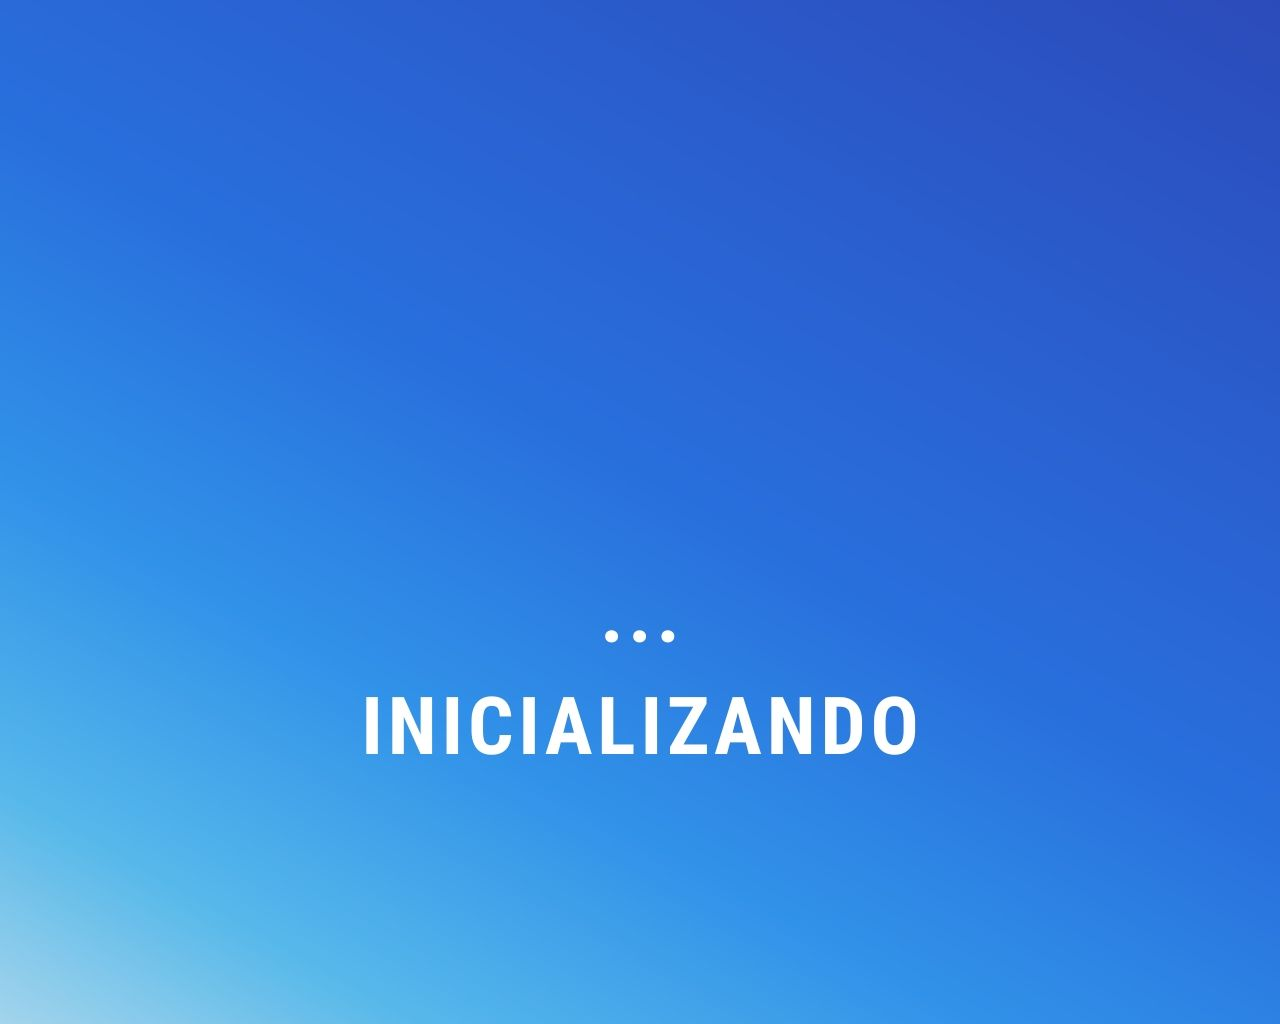
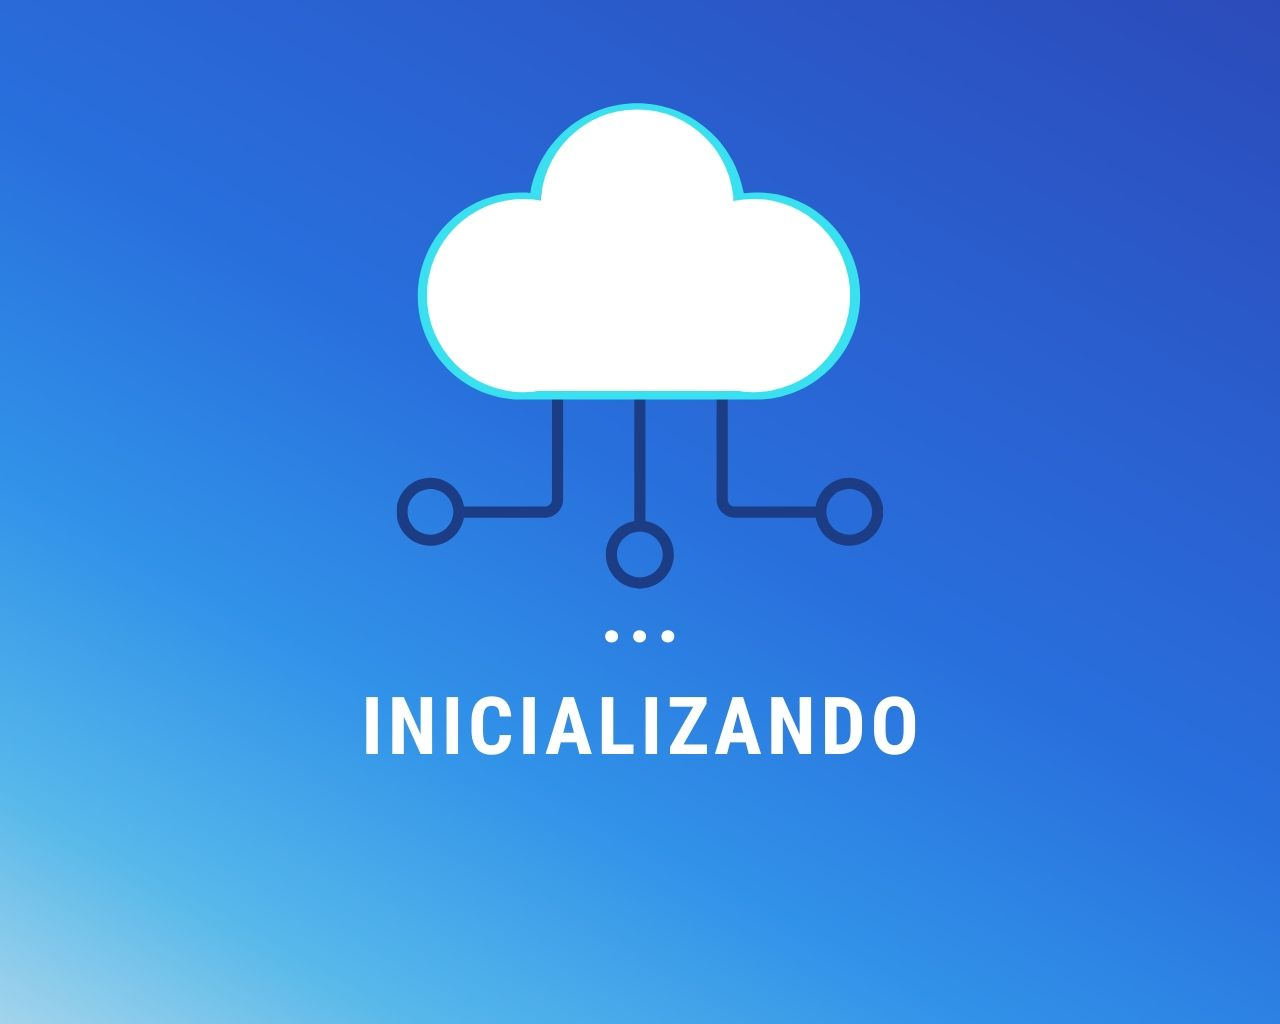
Main

Changed region(s): [[0.3125, 0.0938, 0.6875, 0.5938]]

diff --git a/venv/SistemaDeDesinfeccion.py b/venv/SistemaDeDesinfeccion.py
@@ -66,11 +66,11 @@ class PageOne(Frame):
         self.value3 = 0
         for i in range(12):
             imagen=Image.open(f"Imagenes/GIF_Waiting/waiting_{i}.jpg")
-            imagen=imagen.resize((200, 200), Image.ANTIALIAS)
+            imagen=imagen.resize((150, 150), Image.ANTIALIAS)
             wait.append(ImageTk.PhotoImage(imagen))
         self.change = controller
-        lab_wait = Label(self,image=wait[0])
-        lab_wait.place(x=530,y=200)
+        lab_wait = Label(self,image=wait[0],padding=-5)
+        lab_wait.place(x=565,y=110)
         lab_wait.after(100, lambda: self.refresh_label2())
 
     def refresh_label2(self):
@@ -115,6 +115,10 @@ class PageTwo(Frame):
         run_image = ImageTk.PhotoImage(run_image)
         config_canvas2.create_image(0, 0, anchor=NW, image=run_image)
         config_canvas2.pack()
+        #Botones
+        #start_page = Button(self, text="Start Page", background='white', font=("Helvetica"),
+         #                   command=lambda: controller.show_frame(StartPage))
+        #start_page.place(x=654, y=10)
         self.bind("<<ShowFrame>>", self.on_show_frame)
 
     def on_show_frame(self, event):
